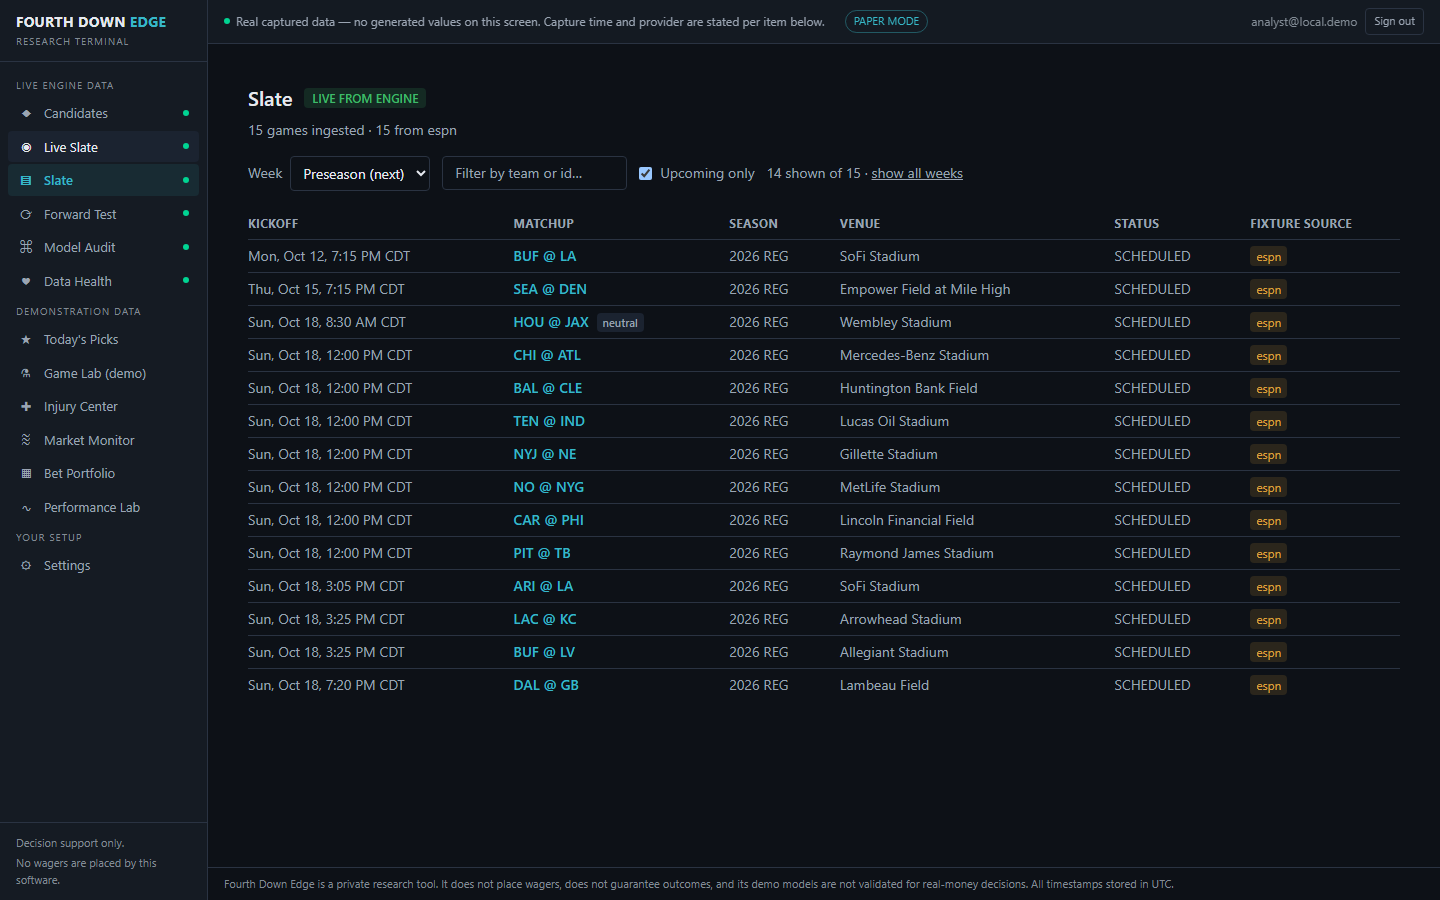
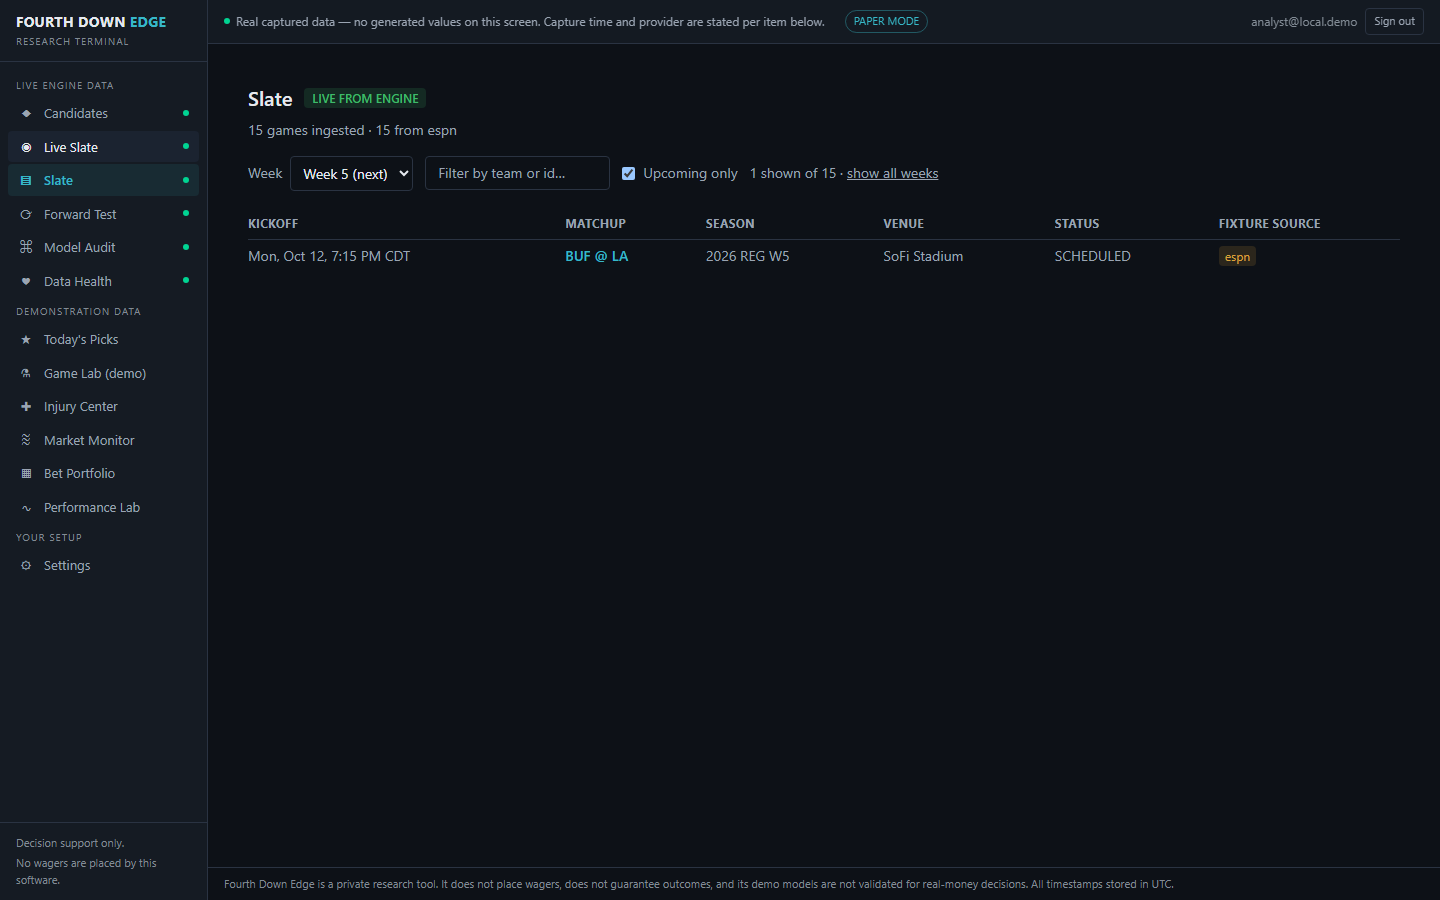
Preserve reported NFL weeks through append-only source corrections

Changed region(s): [[0.2188, 0.1867, 0.7188, 0.7778], [0.7188, 0.2178, 0.9375, 0.7778], [0.1562, 0.3111, 0.2812, 0.7778]]

diff --git a/apps/api/scripts/espn_live_capture.py b/apps/api/scripts/espn_live_capture.py
@@ -45,7 +45,7 @@ import httpx
 
 SCOREBOARD = "https://site.api.espn.com/apis/site/v2/sports/football/nfl/scoreboard"
 PROVIDER = "espn"
-SOURCE_VERSION = "espn-public-scoreboard-v1"
+SOURCE_VERSION = "espn-public-scoreboard-v2"
 
 # ESPN season types. 1 = preseason, 2 = regular, 3 = postseason.
 _SEASON_TYPE = {1: "PRE", 2: "REG", 3: "POST"}
@@ -335,6 +335,14 @@ def discover(payload: dict[str, Any]) -> list[dict[str, Any]]:
         if season_type is None or year is None:
             unreadable.append(str(event.get("shortName") or event.get("id")))
             continue
+        reported_week = (event.get("week") or {}).get("number")
+        if season_type == "PRE":
+            week = 0  # explicit application preseason convention
+        elif isinstance(reported_week, int) and not isinstance(reported_week, bool) and 1 <= reported_week <= 22:
+            week = reported_week
+        else:
+            unreadable.append(str(event.get("shortName") or event.get("id")))
+            continue
         try:
             home = provider_team_to_code(teams["home"].get("displayName", ""))
             away = provider_team_to_code(teams["away"].get("displayName", ""))
@@ -351,6 +359,7 @@ def discover(payload: dict[str, Any]) -> list[dict[str, Any]]:
             "name": event.get("name"),
             "season": year,
             "season_type": season_type,
+            "week": week,
             "home": home, "away": away,
             "kickoff_utc": kickoff,
             "venue": (comp.get("venue") or {}).get("fullName"),
@@ -370,7 +379,7 @@ def discover(payload: dict[str, Any]) -> list[dict[str, Any]]:
         # Reported, never silent. A game dropped for an unreadable season
         # is a gap in the record, and a gap nobody is told about is
         # indistinguishable from a day with no games.
-        print(f"  SKIPPED {len(unreadable)} game(s) with an unreadable season type: "
+        print(f"  SKIPPED {len(unreadable)} game(s) with an unreadable season type/week: "
               f"{', '.join(unreadable[:5])}", file=sys.stderr)
     return games
 
@@ -396,9 +405,14 @@ def persist(games: list[dict[str, Any]], *, data_mode_value: str) -> dict[str, i
                 select(ScheduleObservation).where(
                     ScheduleObservation.canonical_game_id == g["canonical_game_id"],
                     ScheduleObservation.data_mode == data_mode_value,
-                ).limit(1)
+                ).order_by(ScheduleObservation.observed_at.desc(), ScheduleObservation.id.desc()).limit(1)
             ).first()
-            if existing is None:
+            week = g.get("week", 0 if g["season_type"] == "PRE" else None)
+            if not isinstance(week, int) or (g["season_type"] != "PRE" and week <= 0):
+                raise ValueError('Cannot persist a regular/postseason fixture without a reported week')
+            if existing is None or existing.week != week:
+                # A source-confirmed correction appends; original captured rows
+                # remain intact. Preserve a verified FINAL designation.
                 session.add(ScheduleObservation(
                     data_mode=data_mode_value,
                     canonical_game_id=g["canonical_game_id"],
@@ -406,7 +420,7 @@ def persist(games: list[dict[str, Any]], *, data_mode_value: str) -> dict[str, i
                     provider_game_id=g["provider_event_id"],
                     season=g["season"],
                     season_type=g["season_type"],
-                    week=0,
+                    week=week,
                     home_team_id=g["home"],
                     away_team_id=g["away"],
                     kickoff_utc=g["kickoff_utc"],
@@ -423,7 +437,8 @@ def persist(games: list[dict[str, Any]], *, data_mode_value: str) -> dict[str, i
                     stadium_name=g["venue"],
                     neutral_site=g["neutral_site"],
                     international=False,
-                    game_status=_GAME_STATUS.get(g["status"] or "", "UNRESOLVED"),
+                    game_status=("FINAL" if existing is not None and existing.game_status == "FINAL"
+                                 else _GAME_STATUS.get(g["status"] or "", "UNRESOLVED")),
                     # Over the fields that define the fixture, so a later
                     # observation of the same game can be compared rather
                     # than blindly appended.
@@ -431,7 +446,7 @@ def persist(games: list[dict[str, Any]], *, data_mode_value: str) -> dict[str, i
                         "game": g["canonical_game_id"], "home": g["home"],
                         "away": g["away"], "kickoff": g["kickoff_utc"].isoformat(),
                         "venue": g["venue"], "neutral": g["neutral_site"],
-                        "season_type": g["season_type"],
+                        "season_type": g["season_type"], "week": week,
                     }, sort_keys=True).encode()).hexdigest(),
                     source_manifest_version=SOURCE_VERSION,
                     source_updated_at=now,

diff --git a/apps/api/tests/test_espn_capture.py b/apps/api/tests/test_espn_capture.py
@@ -293,7 +293,7 @@ class TestTheSeasonTypeComesFromTheEvent:
     @staticmethod
     def _payload(*, top: dict | None, event_season: dict | None) -> dict:
         event = {
-            "id": "401", "shortName": "DEN @ ATL", "name": "Denver at Atlanta",
+            "week": {"number": 6}, "id": "401", "shortName": "DEN @ ATL", "name": "Denver at Atlanta",
             "date": "2026-08-14T23:00Z",
             "competitions": [{
                 "competitors": [
@@ -531,3 +531,33 @@ def test_conflicting_daily_event_never_silently_overwrites(capture, monkeypatch)
     monkeypatch.setattr(capture.httpx, 'get', get)
     with pytest.raises(ValueError, match='Conflicting ESPN events'):
         capture.fetch('20261018')
+
+
+def test_regular_season_uses_the_event_week_and_refuses_unknown(capture):
+    payload = TestTheSeasonTypeComesFromTheEvent._payload(top={}, event_season={'year': 2026, 'type': 2})
+    assert capture.discover(payload)[0]['week'] == 6
+    payload['events'][0].pop('week')
+    assert capture.discover(payload) == []
+
+
+def test_source_week_correction_appends_and_preserves_original(capture, db):
+    game = _game(status='STATUS_SCHEDULED', completed=False, quotes=[])
+    game.update(season_type='REG', week=5)
+    capture.persist([game], data_mode_value='LIVE_RESEARCH')
+    with db() as session:
+        before = session.scalars(select(ScheduleObservation)).one()
+        original = (before.id, before.week, before.content_hash, before.observed_at)
+    game['week'] = 6
+    capture.persist([game], data_mode_value='LIVE_RESEARCH')
+    capture.persist([game], data_mode_value='LIVE_RESEARCH')
+    with db() as session:
+        rows = list(session.scalars(select(ScheduleObservation).order_by(ScheduleObservation.id)))
+        assert len(rows) == 2
+        assert (rows[0].id, rows[0].week, rows[0].content_hash, rows[0].observed_at) == original
+        assert rows[1].week == 6
+        assert rows[1].source_manifest_version == 'espn-public-scoreboard-v2'
+
+    from fde_api.api.main import get_forward_slate
+
+    slate = get_forward_slate()
+    assert slate['games'][0]['week'] == 6

diff --git a/apps/api/src/fde_api/api/main.py b/apps/api/src/fde_api/api/main.py
@@ -583,7 +583,7 @@ def get_forward_live(
                     # point they became the most informative thing on it.
                     ScheduleObservation.kickoff_utc >= now - timedelta(hours=lookback_hours),
                     ScheduleObservation.kickoff_utc <= horizon,
-                ).order_by(ScheduleObservation.kickoff_utc)
+                ).order_by(ScheduleObservation.observed_at, ScheduleObservation.id)
             )
         )
         # One entry per game: the schedule is append-only, so the newest
@@ -784,7 +784,7 @@ def get_forward_slate(data_mode: str = "LIVE_RESEARCH", limit: int = 400) -> dic
         rows = list(s.scalars(
             select(ScheduleObservation)
             .where(ScheduleObservation.data_mode == mode.value)
-            .order_by(ScheduleObservation.kickoff_utc)
+            .order_by(ScheduleObservation.observed_at, ScheduleObservation.id)
         ))
         latest: dict[str, Any] = {}
         for o in rows:

diff --git a/docs/release1a-validation-2026-10-12.md b/docs/release1a-validation-2026-10-12.md
@@ -11,3 +11,5 @@ Local evidence: 239 JavaScript tests; production TS/build; six patcher tests and
 Unresolved: private historical semantic conflict group, no approved model/accuracy/profit claim, no real-game paper ledger workflow, no player-prop/SGP recommendation or Bet365 integration, no secure hosted service deployment. Read docs/product-outcome-gap.md. Older installed 1.0.60 and its separate richer research branch remain intact; these changes are feature-branch source increments, not an installed upgrade.
 
 Challenge results: repaired two legacy scheduler tests that consulted the configured capture DB rather than a fixture; focused 16 cases pass. Mobile price cards verified with actual public quotes; named selectors distinguish their hidden desktop equivalents. Semantic source labels do not misclassify ESPN fixture observations as an odds-only schedule. No default fixture data becomes LIVE evidence.
+
+Screenshot review found an existing ESPN collector defect: all seasons were stamped week=0, causing October REG fixtures to show Preseason. Collector v2 reads explicit event week, refuses missing REG/POST week, and appends source-confirmed week corrections without overwriting original observations or regressing FINAL status. Targeted tests cover reported/missing week and append-only/idempotent correction.
